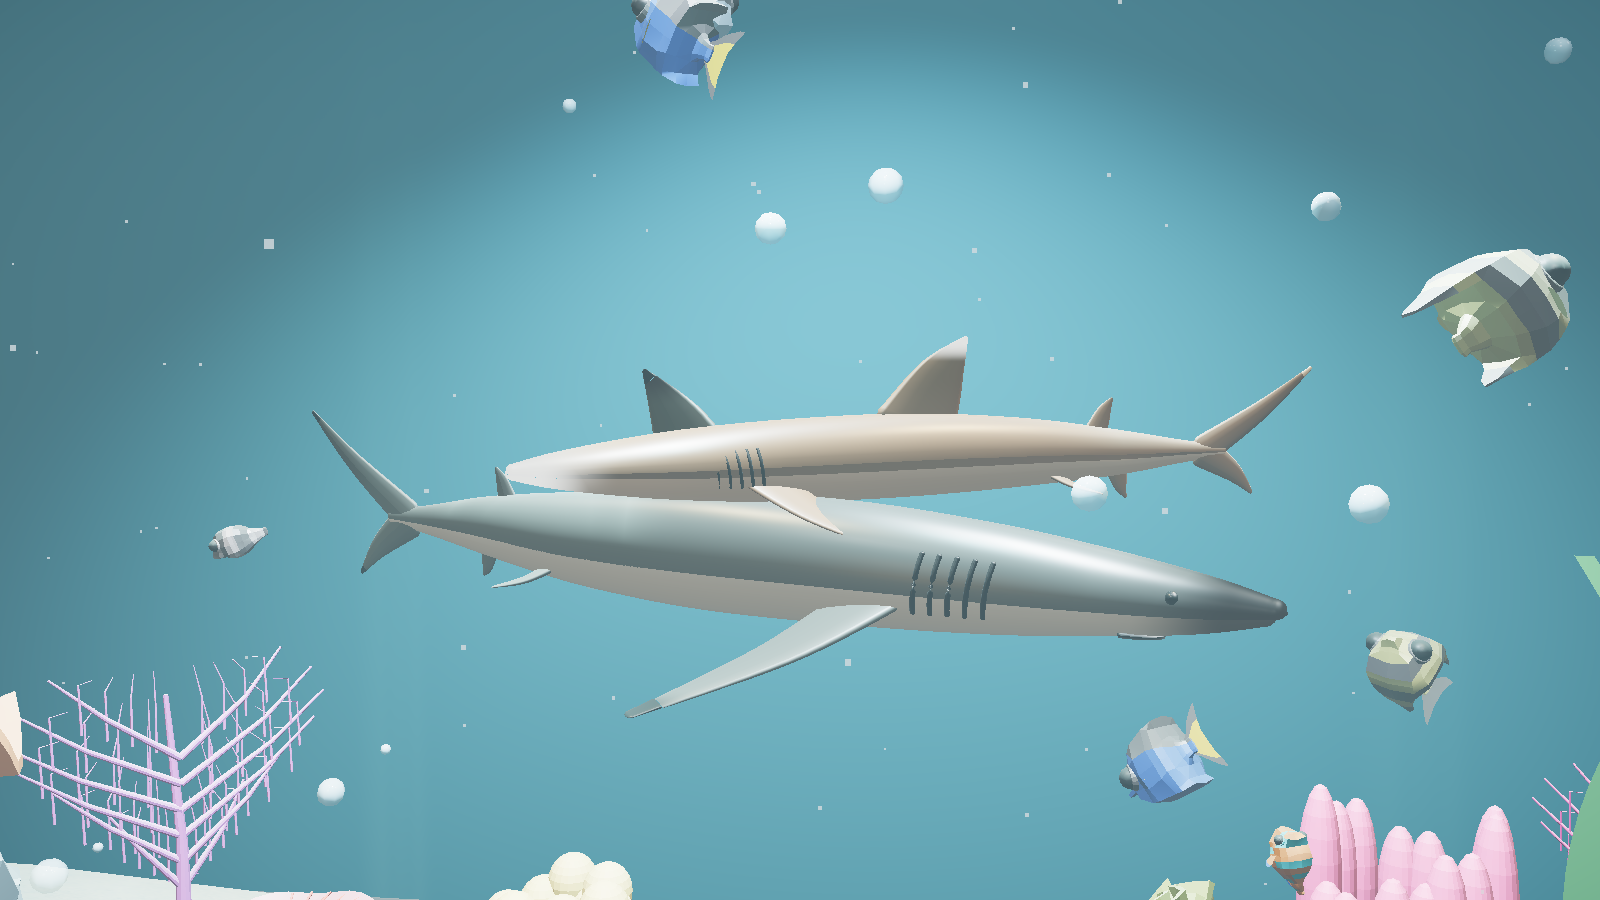
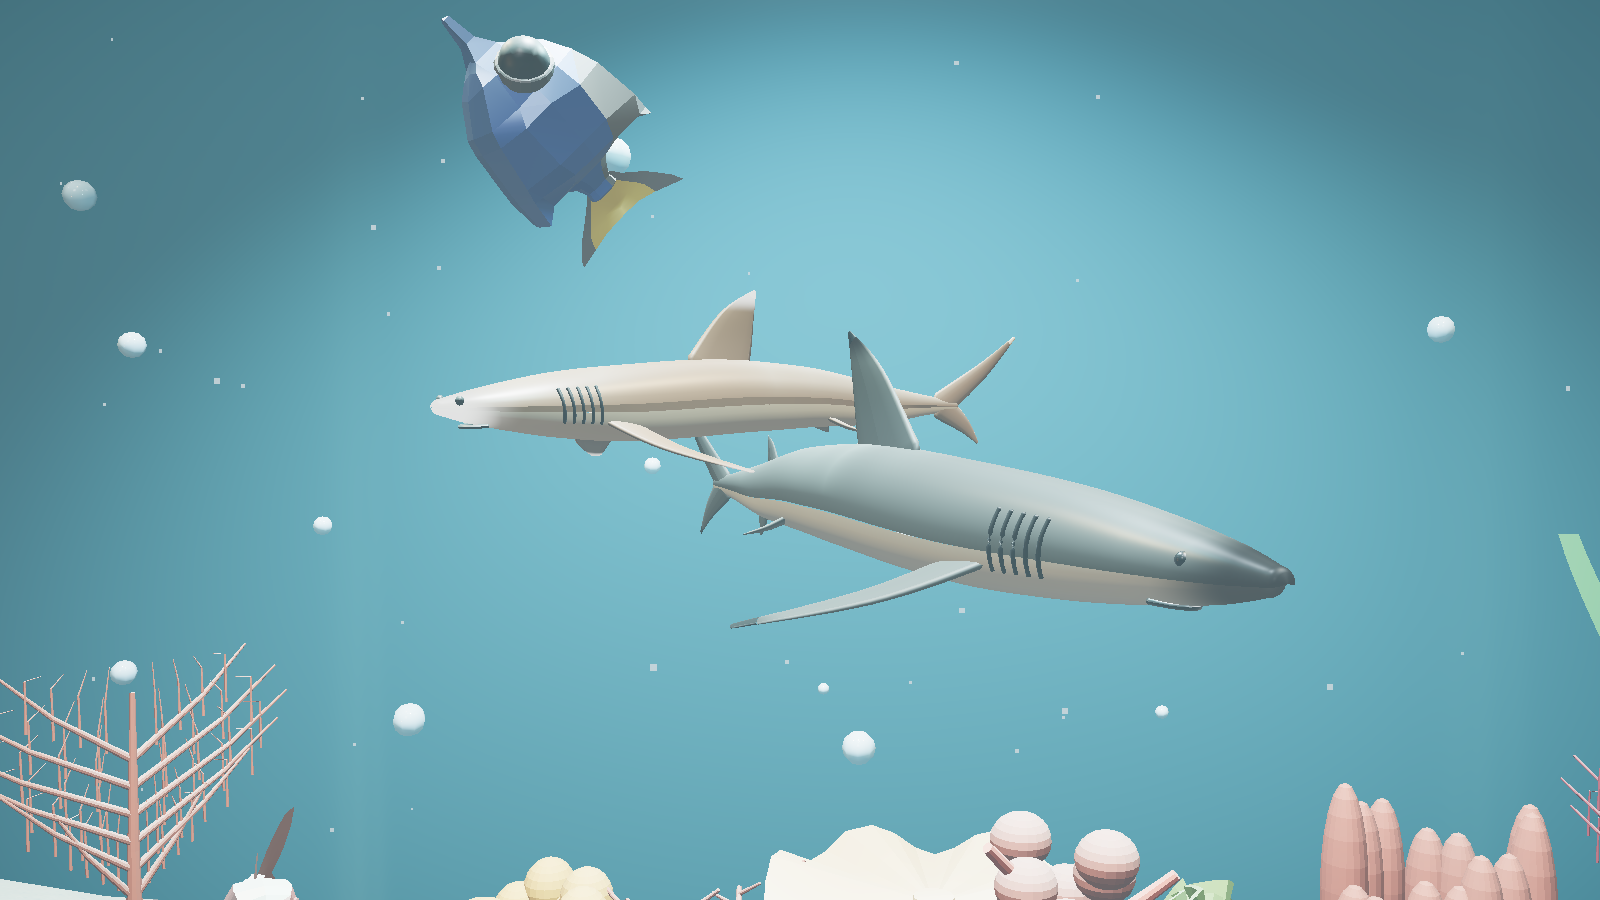
Mercan ve kaya: doğal renkler, dokulu live rock, daha dolu kum
Pastel pembe tonları tereyağı-ochre ve zeytin paletine çekildi. Kayalara
rock_face dokusu ve projektif UV uygulandı, kuma çakıl ve daha sık
tekrar eklendi, yazılım yolunda daha fazla bitki var. Orta/llvmpipe temiz.

diff --git a/js/actors.js b/js/actors.js
@@ -406,6 +406,86 @@ export function createProceduralShark(gender, length, uniforms, swimU) {
   return group;
 }
 
+let ROCK_TEX = null;
+function rockTextures() {
+  if (ROCK_TEX) return ROCK_TEX;
+  const loader = new THREE.TextureLoader();
+  const load = (url, srgb, repeat) => {
+    const tex = loader.load(url);
+    if (srgb) tex.colorSpace = THREE.SRGBColorSpace;
+    tex.wrapS = tex.wrapT = THREE.RepeatWrapping;
+    tex.repeat.set(repeat, repeat);
+    tex.anisotropy = 4;
+    return tex;
+  };
+  ROCK_TEX = {
+    diff: load("./textures/rock_face_03_diff_1k.jpg", true, 1.6),
+    nor: load("./textures/rock_face_03_nor_gl_1k.jpg", false, 1.6),
+    rough: load("./textures/rock_face_03_rough_1k.jpg", false, 1.6),
+  };
+  return ROCK_TEX;
+}
+
+function ensureProjectedUv(geometry) {
+  if (geometry.attributes.uv) return;
+  const pos = geometry.attributes.position;
+  const nrm = geometry.attributes.normal;
+  const uv = new Float32Array(pos.count * 2);
+  for (let i = 0; i < pos.count; i++) {
+    const x = pos.getX(i), y = pos.getY(i), z = pos.getZ(i);
+    const nx = Math.abs(nrm ? nrm.getX(i) : 0);
+    const ny = Math.abs(nrm ? nrm.getY(i) : 1);
+    const nz = Math.abs(nrm ? nrm.getZ(i) : 0);
+    if (ny >= nx && ny >= nz) { uv[i * 2] = x * 0.55; uv[i * 2 + 1] = z * 0.55; }
+    else if (nx >= nz) { uv[i * 2] = z * 0.55; uv[i * 2 + 1] = y * 0.55; }
+    else { uv[i * 2] = x * 0.55; uv[i * 2 + 1] = y * 0.55; }
+  }
+  geometry.setAttribute("uv", new THREE.BufferAttribute(uv, 2));
+}
+
+function styleCoralMaterial(m, name, opts, quality) {
+  const matName = (m.name || "").toLowerCase();
+  const isRock = matName.includes("rock") || name === "boulders" || name === "rock_outcrop" || (name === "bommie" && !matName.includes("coral"));
+  if (isRock) {
+    const tex = rockTextures();
+    if (m.geometry) ensureProjectedUv(m.geometry);
+    m.map = tex.diff;
+    if (!(quality && quality.software)) m.normalMap = tex.nor;
+    m.roughnessMap = tex.rough;
+    m.color.set(0x9a8a78);
+    m.roughness = 0.92;
+    m.metalness = 0.02;
+    m.envMapIntensity = 0.25;
+    return;
+  }
+  const NATURAL = {
+    brain: 0xc47a48,
+    mushroom: 0xb06a4a,
+    table: 0xd8b07a,
+    lettuce: 0x6a8a3a,
+    bubble: 0xd4a048,
+    staghorn: 0xc49668,
+    elkhorn: 0xd0ae80,
+    pillar: 0xc48a58,
+    finger: 0xb87a50,
+    seafan: 0xa85a42,
+    softbush: 0x8a6a38,
+    carnation: 0xc25038,
+    barrel_sponge: 0xa85a28,
+    vase_sponge: 0xb86838,
+    anemone: 0xd4a078,
+    anemone_carpet: 0xc49070,
+    clam: 0xc8b090,
+    starfish: 0xc45a2a,
+    featherduster: 0xc8b8a0,
+  };
+  if (opts && opts.tint) m.color?.multiply(new THREE.Color(opts.tint));
+  else if (NATURAL[name]) m.color?.set(NATURAL[name]);
+  if (matName.includes("pink")) m.color?.set(0xa85a48);
+  if (m.roughness !== undefined) m.roughness = Math.min(Math.max(m.roughness ?? 0.62, 0.45), 0.8);
+  m.envMapIntensity = 0.5;
+}
+
 function sitOnSand(obj, y = TANK.sand) {
   obj.updateMatrixWorld(true);
   const box = new THREE.Box3().setFromObject(obj);
@@ -422,9 +502,10 @@ function cloneCoral(name, targetSize, uniforms, opts = {}) {
     o.receiveShadow = true;
     const srcMat = o.material;
     const m = srcMat.clone();
-    if (opts.tint) m.color?.multiply(new THREE.Color(opts.tint));
-    if (m.roughness !== undefined) m.roughness = Math.min(m.roughness ?? 0.6, 0.62);
-    m.envMapIntensity = 0.55;
+    if (o.geometry) ensureProjectedUv(o.geometry);
+    // attach geometry to material helper via a dummy
+    m.userData._geo = o.geometry;
+    styleCoralMaterial(Object.assign(m, { geometry: o.geometry, name: srcMat?.name || m.name }), name, opts, opts.quality);
     const sway = opts.sway;
     applyUnderwater(m, uniforms, sway ? {
       key: "sway-" + name,
@@ -467,46 +548,86 @@ export function createReefScenery(quality, uniforms) {
     ["bommie", 0.7, -1.55, -0.15, 0.8],
     ["rock_outcrop", 0.85, 1.75, -0.55, -0.5],
     ["bommie", 0.55, 1.45, 0.05, 1.2],
-    ["brain", 0.42, -1.35, 0.35, 0.2, { tint: 0xffc4b0 }],
-    ["brain", 0.32, 1.15, -0.45, 1.1, { tint: 0xffd0c4 }],
-    ["mushroom", 0.34, -0.95, -0.58, 0.6, { tint: 0xf0a0c0 }],
+    ["brain", 0.42, -1.35, 0.35, 0.2],
+    ["brain", 0.32, 1.15, -0.45, 1.1],
+    ["mushroom", 0.34, -0.95, -0.58, 0.6],
     ["table", 0.55, 0.15, -0.62, 0.3],
-    ["lettuce", 0.3, 0.55, -0.5, 0.9, { tint: 0x90e0a0 }],
-    ["bubble", 0.28, -0.45, -0.55, 0.1, { tint: 0xffe8a0 }],
-    ["staghorn", 0.72, -1.9, -0.25, 0.5, { tint: 0xf2c4a0 }],
-    ["elkhorn", 0.7, 1.95, -0.3, -0.4, { tint: 0xf8d8a8 }],
+    ["lettuce", 0.3, 0.55, -0.5, 0.9],
+    ["bubble", 0.28, -0.45, -0.55, 0.1],
+    ["staghorn", 0.72, -1.9, -0.25, 0.5],
+    ["elkhorn", 0.7, 1.95, -0.3, -0.4],
     ["pillar", 0.7, -1.7, -0.6, 0.0],
     ["finger", 0.4, 0.85, -0.58, 0.7],
     ["seafan", 0.55, -1.15, -0.62, 0.9, { sway: true }],
-    ["seafan", 0.42, 1.25, -0.6, -0.8, { sway: true, tint: 0xff88aa }],
-    ["softbush", 0.38, -0.2, -0.58, 0.4, { sway: true, tint: 0xff6a8a }],
-    ["carnation", 0.32, 0.35, -0.48, 1.4, { sway: true, tint: 0xff4466 }],
+    ["seafan", 0.42, 1.25, -0.6, -0.8, { sway: true, tint: 0xc07050 }],
+    ["softbush", 0.38, -0.2, -0.58, 0.4, { sway: true }],
+    ["carnation", 0.32, 0.35, -0.48, 1.4, { sway: true }],
     ["barrel_sponge", 0.32, -0.7, 0.48, 0.3, { tint: 0xc45a2a }],
     ["vase_sponge", 0.26, 0.95, 0.42, 0.8, { tint: 0xd07040 }],
     ["clam", 0.28, -0.15, 0.5, 0.4],
     ["starfish", 0.16, 0.55, 0.52, 0.2],
     ["featherduster", 0.28, -1.05, 0.38, 0.6, { sway: true }],
-    ["anemone", 0.42, -1.25, 0.22, 0.3, { sway: true, tint: 0xff88aa }],
-    ["anemone", 0.34, 1.35, 0.28, -0.5, { sway: true, tint: 0xffc0d0 }],
+    ["anemone", 0.42, -1.25, 0.22, 0.3, { sway: true }],
+    ["anemone", 0.34, 1.35, 0.28, -0.5, { sway: true, tint: 0xe8c4a0 }],
     ["anemone_carpet", 0.5, -0.55, -0.4, 0.8, { sway: true }],
   ];
   for (const item of layout) {
     const [name, size, x, z, rot, opts] = item;
-    if (n < 1 && /featherduster|elkhorn|pillar|carnation|softbush|table/.test(name)) continue;
+    if (n < 1 && /elkhorn|pillar/.test(name)) continue;
     const mesh = cloneCoral(name, size * (0.9 + rng() * 0.2), uniforms, {
       ...(opts || {}),
       phase: rng() * 6.28,
+      quality,
     });
     place(group, mesh, x, z, rot);
   }
+  // extra mid-tank colonies and pebbles for a denser, less empty sand bed
+  const extras = [
+    ["finger", 0.28, -0.55, 0.22, 0.4],
+    ["lettuce", 0.22, 0.25, 0.32, 1.1],
+    ["mushroom", 0.22, 1.05, 0.18, 0.2],
+    ["brain", 0.24, -0.85, 0.15, 0.9],
+    ["starfish", 0.12, -0.4, 0.55, 1.3],
+  ];
+  for (const [name, size, x, z, rot] of extras) {
+    const mesh = cloneCoral(name, size * (0.9 + rng() * 0.2), uniforms, { phase: rng() * 6.28, quality });
+    place(group, mesh, x, z, rot);
+  }
+  addPebbles(group, uniforms, quality, rng);
   return group;
+}
+
+function addPebbles(group, uniforms, quality, rng) {
+  const tex = rockTextures();
+  const geo = new THREE.DodecahedronGeometry(0.04, 0);
+  ensureProjectedUv(geo);
+  const mat = new THREE.MeshStandardMaterial({
+    map: tex.diff,
+    roughnessMap: tex.rough,
+    color: 0x8a7a68,
+    roughness: 0.92,
+    metalness: 0.02,
+  });
+  applyUnderwater(mat, uniforms, { key: "pebble" });
+  const n = quality.mobile ? 10 : 18;
+  for (let i = 0; i < n; i++) {
+    const m = new THREE.Mesh(geo, mat);
+    const s = 0.5 + rng() * 1.4;
+    m.scale.set(s, s * (0.5 + rng() * 0.5), s * (0.7 + rng() * 0.5));
+    m.position.set((rng() - 0.5) * 3.6, TANK.sand, (rng() - 0.5) * 1.2);
+    m.rotation.set(rng() * 1.5, rng() * 6.28, rng() * 1.5);
+    sitOnSand(m);
+    m.castShadow = true;
+    m.receiveShadow = true;
+    group.add(m);
+  }
 }
 
 export function createKelp(quality, uniforms) {
   const group = new THREE.Group();
   const n = quality.kelp;
   const rng = mulberry(11);
-  if (CACHE.coral.kelp && !quality.software) {
+  if (CACHE.coral.kelp && !quality.software) { // real kelp on GPU
     const count = n;
     for (let i = 0; i < count; i++) {
       const side = i % 2 === 0 ? -1 : 1;
@@ -517,7 +638,8 @@ export function createKelp(quality, uniforms) {
     }
   } else {
     const blade = bladeGeo();
-    for (let i = 0; i < n; i++) {
+    const count = Math.max(n, quality.software ? 12 : n);
+    for (let i = 0; i < count; i++) {
       const side = i % 2 === 0 ? -1 : 1;
       const x = side * (0.9 + rng() * 1.15);
       const z = -TANK.d / 2 + 0.28 + rng() * (TANK.d * 0.45);

diff --git a/js/world.js b/js/world.js
@@ -362,9 +362,9 @@ export async function createWorld(canvas, quality, manager) {
 
   const load = texLoader(manager);
   const tex = {
-    sandDiff: load(quality.tex1k ? "./textures/coast_sand_01_diff_1k.jpg" : "./textures/coast_sand_01_diff_2k.jpg", true, 3.2),
-    sandNor: load(quality.tex1k ? "./textures/coast_sand_01_nor_gl_1k.jpg" : "./textures/coast_sand_01_nor_gl_2k.jpg", false, 3.2),
-    sandRough: load("./textures/coast_sand_01_rough_1k.jpg", false, 3.2),
+    sandDiff: load(quality.tex1k ? "./textures/coast_sand_01_diff_1k.jpg" : "./textures/coast_sand_01_diff_2k.jpg", true, 5.0),
+    sandNor: load(quality.tex1k ? "./textures/coast_sand_01_nor_gl_1k.jpg" : "./textures/coast_sand_01_nor_gl_2k.jpg", false, 5.0),
+    sandRough: load("./textures/coast_sand_01_rough_1k.jpg", false, 5.0),
     rockDiff: load("./textures/rock_face_03_diff_1k.jpg", true, 1.4),
     rockNor: load("./textures/rock_face_03_nor_gl_1k.jpg", false, 1.4),
     rockRough: load("./textures/rock_face_03_rough_1k.jpg", false, 1.4),
@@ -959,7 +959,7 @@ function makeCabinet(tex) {
 }
 
 function makeSand(tex, quality) {
-  const segs = quality && (quality.software || quality.tex1k) ? 8 : 64;
+  const segs = quality && (quality.software || quality.tex1k) ? 16 : 64;
   const geo = new THREE.PlaneGeometry(TANK.w - 0.06, TANK.d - 0.06, segs, Math.max(4, (segs / 2) | 0));
   const pos = geo.attributes.position;
   for (let i = 0; i < pos.count; i++) {

diff --git a/index.html b/index.html
@@ -138,6 +138,6 @@
       </form>
     </div>
   </div>
-  <script type="module" src="js/main.js?v=20261121r"></script>
+  <script type="module" src="js/main.js?v=20261121s"></script>
 </body>
 </html>
